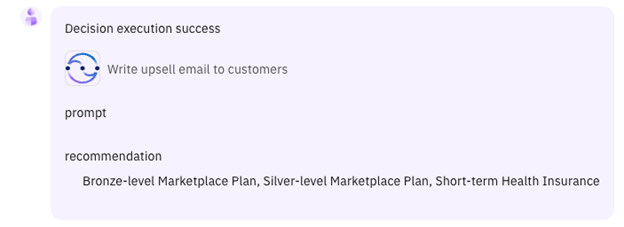
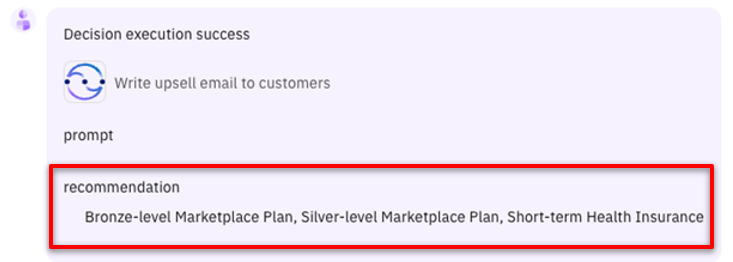
script updated

diff --git a/docs/100-digital-labor-boosting-sales-productivity-with-watsonx-orchestrate/demo-script.md b/docs/100-digital-labor-boosting-sales-productivity-with-watsonx-orchestrate/demo-script.md
@@ -19,7 +19,7 @@ Prior to watsonx Orchestrate, agents in an insurance office dedicated a few hour
 2.	Determine the best cross-sell products to offer each customer.
 3.	Send a customized email to each customer.
 
-We'll look at how watsonx Orchestrate can assist agents in performing this sequence of tasks. <br/></br/>
+We'll look at how watsonx Orchestrate can assist agents in performing this sequence of tasks. <br/><br/>
 Let's get started.
 
 <br/>
@@ -58,7 +58,7 @@ Let's get started.
 
 | **2.1** | **Identify products for cross-sell / upsell** |
 | :--- | :--- |
-| **Narration** | The next task is to determine which products to recommend for the selected customer.<br/><br/> The customer details from Salesforce are automatically submitted into Orchestrate's built-in decision engine and the upsell recommendations are displayed.<br/><br/> Behind the scenes, the decision engine applied business logic using many different factors specific to this customer, such as the child’s age, pre-existing conditions, and current coverage.<br/><br/>In the case of John Collins, the decision engine recommends three health insurance plans suitable for his child: Bronze-level Marketplace Plan, Silver-level Marketplace Plan and Short-term Health Insurance.| 
+| **Narration** | The next task is to determine which products to recommend for the selected customer.<br/><br/> The customer details from Salesforce are automatically submitted into Orchestrate's built-in decision engine and the upsell recommendations are displayed.Behind the scenes, the decision engine applied business logic using many different factors specific to this customer, such as the child’s age, pre-existing conditions, and current coverage.<br/><br/>In the case of John Collins, the decision engine recommends three health insurance plans suitable for his child: Bronze-level Marketplace Plan, Silver-level Marketplace Plan and Short-term Health Insurance.| 
 | **Action** &nbsp; 2.1.1 | Highlight the three insurance plans recommended by the decision skill.<br/><img src="images/2-1-1.png" width="800" /> |
 
 <br/>
@@ -79,9 +79,8 @@ Let's get started.
 
 | **3.1** | **Use generative AI to write a personalized email** |
 | :--- | :--- |
-| **Narration** | Personalized emails increase the likelihood of conversion. watsonx Orchestrate uses one of IBM's Large Language Models (LLMs) via the watsonx.ai platform to generate a targeted email for the selected customer.<br/> Perfecting the AI prompt to generate a properly formatted email is typically a time-consuming activity. To make this quicker, Orchestrate automatically inserts a pre-written AI prompt that includes dynamically inserted customer data in the prompt input field.|
-| **Action** &nbsp; 3.1.1 | In the prompt field, **highlight** the input text with embedded recommended products to show how the prompt has been populated using data taken from the decision engine.<br/> <img src="images/3-1-1.png" width="800" /> |
-| **Action** &nbsp; 3.1.2 |  <br/> <img src="images/3-1-2.png" width="800" /> |
+| **Narration** | Personalized emails increase the likelihood of conversion. Watsonx Orchestrate uses one of IBM's Large Language Models (LLMs) via the watsonx.ai platform to generate a targeted email for the selected customer.<br/> Perfecting the AI prompt to generate a properly formatted email is typically a time-consuming activity. To make this quicker, Orchestrate automatically inserts a pre-written AI prompt that includes dynamically inserted customer data in the prompt input field.|
+| **Action** &nbsp; 3.1.1 | In the prompt field, **highlight** (1) the input text with embedded recommended products to show how data from the decision engine has been automatically inserted. Click **Apply** (2) <br/> <img src="images/3-1-1.png" width="800" /> |
 
 <br/>
 
